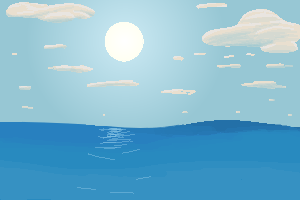
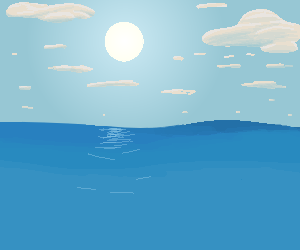
Camera size fixed and asset update

diff --git a/src/lib.rs b/src/lib.rs
@@ -78,10 +78,7 @@ enum AppSet {
 fn spawn_camera(mut commands: Commands) {
     let mut camera_bundle = Camera2dBundle::default();
     camera_bundle.projection.scale = 1f32 / 4f32;
-    camera_bundle.projection.scaling_mode = ScalingMode::AutoMax {
-        max_width: 1080.0,
-        max_height: 720.0,
-    };
+    camera_bundle.projection.scaling_mode = ScalingMode::FixedVertical(4.0 * 250.0);
     commands.spawn((
         Name::new("Camera"),
         camera_bundle,
